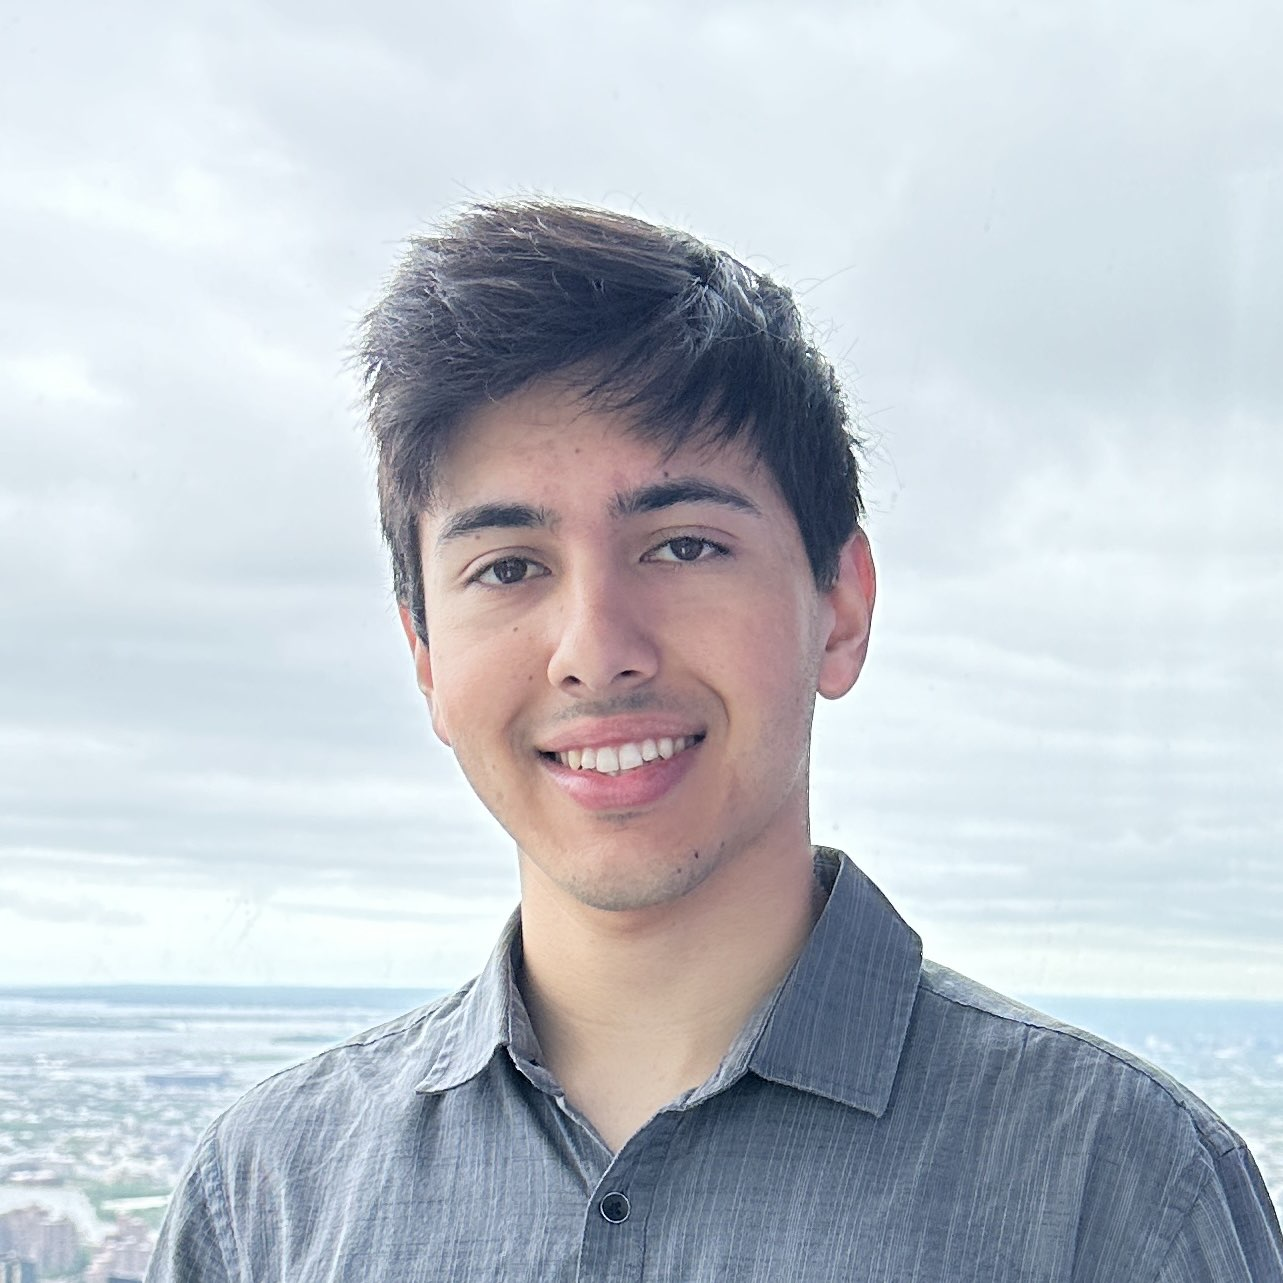
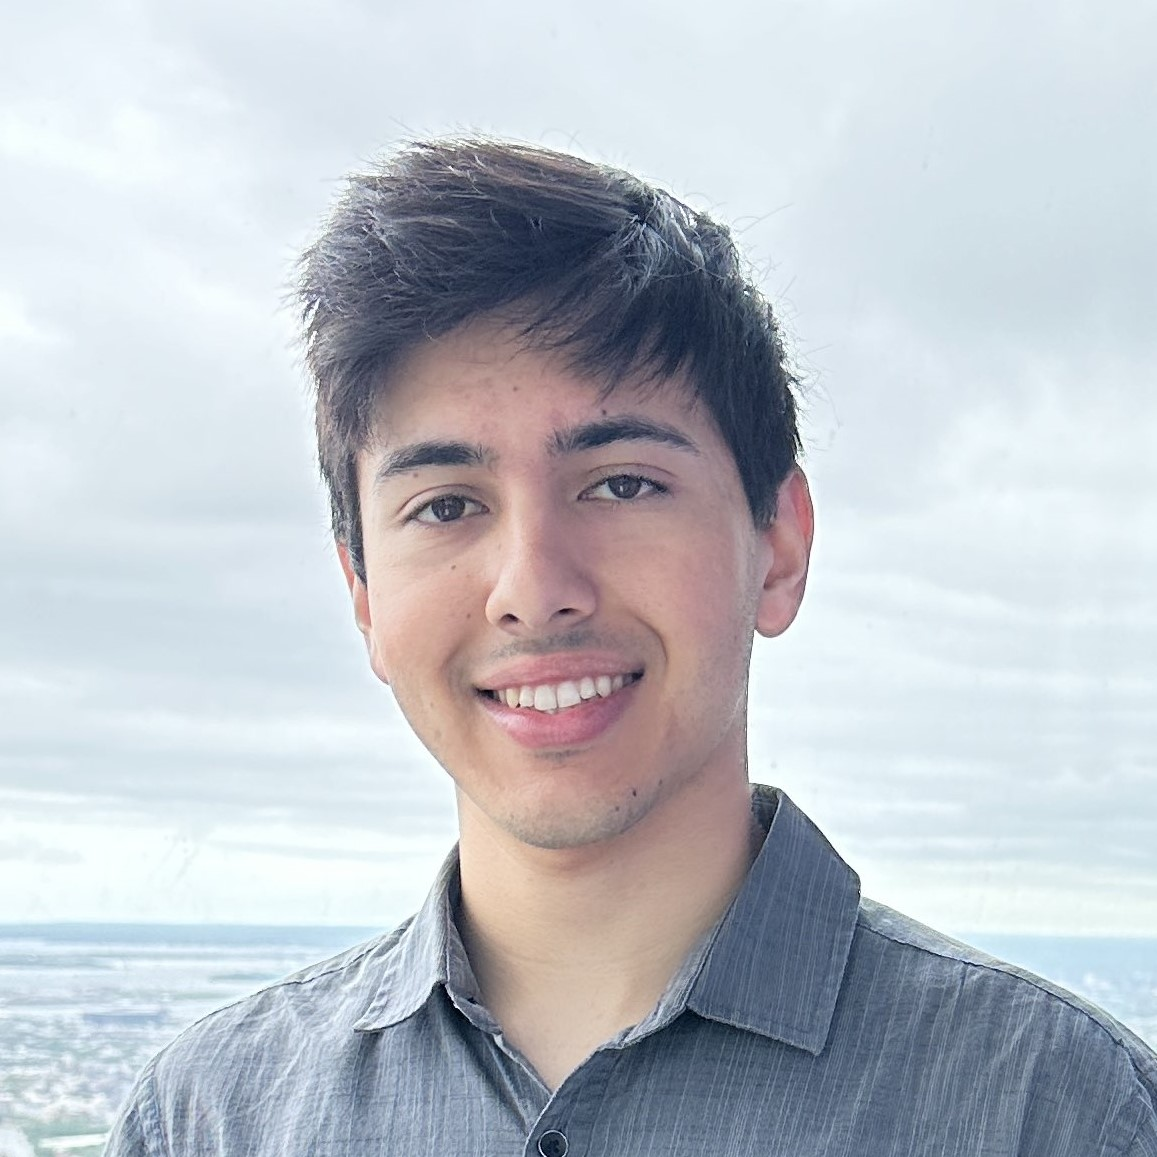
finalized Meet the Team descriptions and photos

Changed region(s): [[0.0, 0.0933, 1.0, 1.0]]

diff --git a/templates/UserAuth/index.html b/templates/UserAuth/index.html
@@ -27,7 +27,7 @@
                         <img src="{% static 'UserAuth/Alex.jpg' %}" alt="Alex Hool" class="team-image">
                         <h3 class="team-name">Alex Hool</h3>
                         <p class="team-role">Backend Developer</p>
-                        <p class="team-description">Hi, I'm Alex :)</p>
+                        <p class="team-description">Hi, I'm Alex! I set up our site's integration with spotify to retrieve your top hits!</p>
                     </div>
                     <!-- Team Member 2 -->
                     <div class="team-member">
@@ -42,7 +42,7 @@
                         <img src="{% static 'UserAuth/Stanley.jpg' %}" alt="Stanley Wang" class="team-image">
                         <h3 class="team-name">Stanley Wang</h3>
                         <p class="team-role">Project Manager</p>
-                        <p class="team-description">Hi, I'm Stanley :)</p>
+                        <p class="team-description">Hi, I'm Stanley! I worked on the wraps functions from creating to sharing.</p>
                     </div>
                     <!-- Team Member 4 -->
                     <div class="team-member">
@@ -53,10 +53,10 @@
                     </div>
                     <!-- Team Member 5 -->
                     <div class="team-member">
-                        <img src="{% static 'UserAuth/Stanley.jpg' %}" alt="Aneesh Kanaram" class="team-image">
+                        <img src="{% static 'UserAuth/Aneesh.jpg' %}" alt="Aneesh Kanaram" class="team-image">
                         <h3 class="team-name">Aneesh Kanaram</h3>
-                        <p class="team-role">Scrum</p>
-                        <p class="team-description">I scrum so hard</p>
+                        <p class="team-role">Scrum Master</p>
+                        <p class="team-description">Hi, I'm Aneesh! I helped design our site's ability to post your wrap and see what others have done! </p>
                     </div>
     
                 </div>
